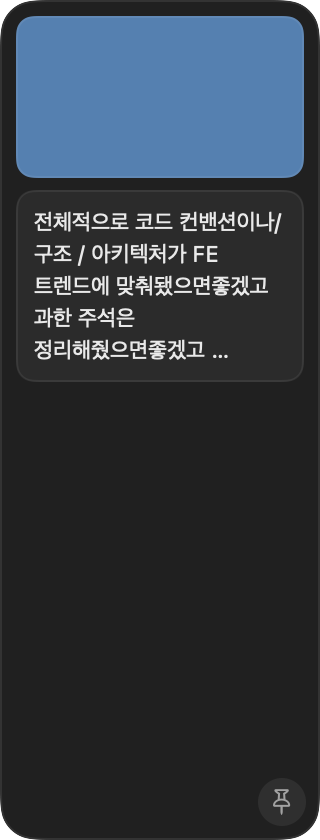
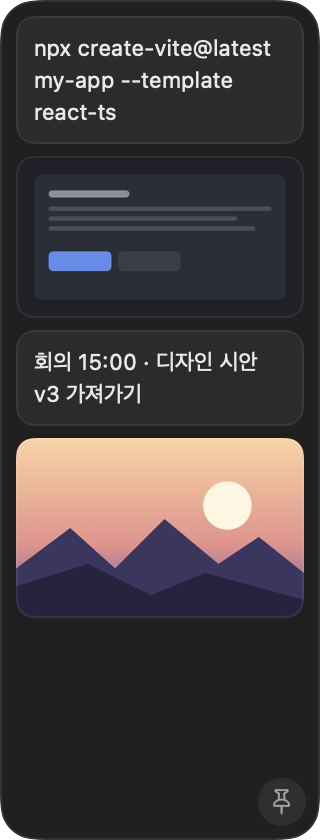
ClipShelf로 이름 변경, 샘플 데이터 스크린샷, README 배지, v0.2.0

diff --git a/Tests/ClipShelfTests/StoreTests.swift b/Tests/ClipShelfTests/StoreTests.swift
@@ -1,13 +1,13 @@
 import AppKit
 import XCTest
-@testable import Shelf
+@testable import ClipShelf
 
 final class StoreTests: XCTestCase {
     private var dir: URL!
     private var store: Store!
 
     override func setUp() {
-        dir = FileManager.default.temporaryDirectory.appendingPathComponent("ShelfTests-\(UUID().uuidString)")
+        dir = FileManager.default.temporaryDirectory.appendingPathComponent("ClipShelfTests-\(UUID().uuidString)")
         store = Store(directory: dir)
     }
 
@@ -60,7 +60,7 @@ final class StoreTests: XCTestCase {
     }
 
     func testPasteboardRoundTrip() {
-        let pb = NSPasteboard(name: NSPasteboard.Name("ShelfTests-\(UUID().uuidString)"))
+        let pb = NSPasteboard(name: NSPasteboard.Name("ClipShelfTests-\(UUID().uuidString)"))
         defer { pb.releaseGlobally() }
 
         pb.clearContents()

diff --git a/Sources/ClipShelf/ShelfPanel.swift b/Sources/ClipShelf/ShelfPanel.swift
@@ -229,7 +229,7 @@ final class ShelfPanel {
             guard let view = self?.panel.contentView,
                   let rep = view.bitmapImageRepForCachingDisplay(in: view.bounds) else { return }
             view.cacheDisplay(in: view.bounds, to: rep)
-            let url = Store.defaultDirectory.deletingLastPathComponent().appendingPathComponent("Shelf-snapshot.png")
+            let url = Store.defaultDirectory.deletingLastPathComponent().appendingPathComponent("ClipShelf-snapshot.png")
             try? rep.representation(using: .png, properties: [:])?.write(to: url)
         }
         source.resume()

diff --git a/Sources/ClipShelf/ClipShelfApp.swift b/Sources/ClipShelf/ClipShelfApp.swift
@@ -2,11 +2,11 @@ import ServiceManagement
 import SwiftUI
 
 @main
-struct ShelfApp: App {
+struct ClipShelfApp: App {
     @NSApplicationDelegateAdaptor private var delegate: AppDelegate
 
     var body: some Scene {
-        MenuBarExtra("Shelf", systemImage: "tray.full") {
+        MenuBarExtra("ClipShelf", systemImage: "tray.full") {
             Button(L("클립보드에서 추가", "Add from Clipboard")) { delegate.shelf.store.addFromPasteboard() }
             Toggle(L("로그인 시 실행", "Launch at Login"), isOn: launchAtLogin)
             Divider()

diff --git a/Sources/ClipShelf/Store.swift b/Sources/ClipShelf/Store.swift
@@ -4,7 +4,7 @@ import UniformTypeIdentifiers
 /// 선반 = 폴더 하나. 폴더 안의 파일이 곧 아이템. `.txt`는 텍스트, 나머지는 이미지/파일.
 final class Store: ObservableObject {
     static let defaultDirectory = FileManager.default.urls(for: .cachesDirectory, in: .userDomainMask)[0]
-        .appendingPathComponent("Shelf", isDirectory: true)
+        .appendingPathComponent("ClipShelf", isDirectory: true)
 
     let directory: URL
     @Published private(set) var items: [URL] = []

diff --git a/Package.swift b/Package.swift
@@ -2,10 +2,10 @@
 import PackageDescription
 
 let package = Package(
-    name: "Shelf",
+    name: "ClipShelf",
     platforms: [.macOS(.v14)],
     targets: [
-        .executableTarget(name: "Shelf", path: "Sources/Shelf"),
-        .testTarget(name: "ShelfTests", dependencies: ["Shelf"], path: "Tests/ShelfTests"),
+        .executableTarget(name: "ClipShelf", path: "Sources/ClipShelf"),
+        .testTarget(name: "ClipShelfTests", dependencies: ["ClipShelf"], path: "Tests/ClipShelfTests"),
     ]
 )

diff --git a/README.ko.md b/README.ko.md
@@ -1,8 +1,8 @@
 <p align="center">
-  <img src="docs/icon/app-icon.png" width="128" alt="선반 아이콘">
+  <img src="docs/icon/app-icon.png" width="128" alt="클립 선반 아이콘">
 </p>
 
-<h1 align="center">Shelf · 선반</h1>
+<h1 align="center">ClipShelf · 클립 선반</h1>
 
 <p align="center">
   맥 화면 가장자리에 붙어 있는 작은 임시 보관함.<br>
@@ -10,13 +10,15 @@
 </p>
 
 <p align="center">
-  <a href="README.md">English</a> ·
-  <a href="https://github.com/E-JIWON/shelf/releases/latest">다운로드</a>
+  <a href="README.md"><img src="https://img.shields.io/badge/English-README.md-blue?style=flat-square" alt="English"></a>
+  <a href="README.ko.md"><img src="https://img.shields.io/badge/한국어-현재-111?style=flat-square" alt="한국어"></a>
+  <a href="https://github.com/E-JIWON/clipshelf/releases/latest"><img src="https://img.shields.io/github/v/release/E-JIWON/clipshelf?style=flat-square&label=다운로드&color=2ea043" alt="다운로드"></a>
+  <img src="https://img.shields.io/badge/macOS-14%2B-lightgrey?style=flat-square" alt="macOS 14+">
 </p>
 
 ---
 
-캡처를 떴는데 세 군데에 넣어야 한다. 뭔가 복사했는데 다른 걸 복사하다 날린다. 선반은 그 "사이"에 두는 자리다. 화면 가장자리에 들어가 있는 작은 유리판에 던져두면, 끝날 때까지 거기 있다.
+캡처를 떴는데 세 군데에 넣어야 한다. 뭔가 복사했는데 다른 걸 복사하다 날린다. 클립 선반은 그 "사이"에 두는 자리다. 화면 가장자리에 들어가 있는 작은 유리판에 던져두면, 끝날 때까지 거기 있다.
 
 ## 뭘 하나
 
@@ -27,26 +29,26 @@
 - **그 자리에서 보기** — 카드 클릭하면 Quick Look. 텍스트 카드는 바로 편집창이 되고 타이핑하는 대로 저장.
 - **거슬리지 않기** — 평소엔 10px 탭만 남기고 숨어 있다가, 탭에 마우스를 대거나 어디서든 드래그를 시작하면 스르륵 나온다.
 - **놓은 자리에 있기** — 패널을 좌/우 아무 쪽으로 끌어다 놓으면 가장자리에 붙고 기억한다. 핀을 켜면 계속 열려 있음.
-- **설정할 게 없음** — 계정, 동기화, 설정창 없음. 아이템은 `~/Library/Caches/Shelf` 폴더의 그냥 파일.
+- **설정할 게 없음** — 계정, 동기화, 설정창 없음. 아이템은 `~/Library/Caches/ClipShelf` 폴더의 그냥 파일.
 
 ## 설치
 
 **다운로드** (macOS 14 Sonoma 이상, Apple Silicon·Intel)
 
-1. [최신 릴리즈](https://github.com/E-JIWON/shelf/releases/latest)에서 `Shelf.zip` 받아서 압축 해제.
-2. `Shelf.app`을 `/Applications`로 옮기고 실행.
+1. [최신 릴리즈](https://github.com/E-JIWON/clipshelf/releases/latest)에서 `ClipShelf.zip` 받아서 압축 해제.
+2. `ClipShelf.app`을 `/Applications`로 옮기고 실행.
 3. "확인되지 않은 개발자" 경고가 뜬다(공증을 안 받았음). **시스템 설정 → 개인정보 보호 및 보안**에서 **그래도 열기**를 누르거나, 터미널에서 한 번:
    ```bash
-   xattr -cr /Applications/Shelf.app
+   xattr -cr /Applications/ClipShelf.app
    ```
 4. 메뉴바에 트레이 아이콘이 생긴다. 재시작 후에도 쓰려면 거기서 **로그인 시 실행**을 켠다.
 
 **소스에서 빌드**
 
 ```bash
-git clone https://github.com/E-JIWON/shelf.git
-cd shelf
-./install.sh      # 릴리즈 빌드 → Shelf.app → /Applications
+git clone https://github.com/E-JIWON/clipshelf.git
+cd clipshelf
+./install.sh      # 릴리즈 빌드 → ClipShelf.app → /Applications
 ```
 
 Xcode 15 이상(또는 Swift 5.9 커맨드라인 툴) 필요.
@@ -55,7 +57,7 @@ Xcode 15 이상(또는 Swift 5.9 커맨드라인 툴) 필요.
 
 | 파일 | 역할 |
 |---|---|
-| `ShelfApp.swift` | SwiftUI `App` 진입점 + `MenuBarExtra`. Dock 아이콘 없음. |
+| `ClipShelfApp.swift` | SwiftUI `App` 진입점 + `MenuBarExtra`. Dock 아이콘 없음. |
 | `ShelfPanel.swift` | 앱을 활성화하지 않는 `NSPanel`. 가장자리 스냅, 숨김/펼침, 외부 드래그 감지, Quick Look 팝오버. |
 | `Store.swift` | 데이터 레이어 = 폴더. 파일 하나가 아이템 하나, `.txt`면 텍스트. `DispatchSource`로 폴더를 감시해서 바깥에서 바뀐 것도 반영. |
 | `Views/DragHandle.swift` | 카드 위의 AppKit 드래그 세션. SwiftUI `onDrag`는 `public.file-url`을 안 실어서 다른 앱이 드롭을 안 받는다. |
@@ -72,14 +74,14 @@ Xcode 15 이상(또는 Swift 5.9 커맨드라인 툴) 필요.
 swift run          # 개발 실행
 swift test         # Store 단위 테스트
 ./install.sh       # /Applications 에 설치
-kill -USR1 $(pgrep -x Shelf)   # 패널을 ~/Library/Caches/Shelf-snapshot.png 로 저장
+kill -USR1 $(pgrep -x ClipShelf)   # 패널을 ~/Library/Caches/ClipShelf-snapshot.png 로 저장
 ```
 
 ## 다른 거 쓰면 안 되나
 
 - **Yoink** — 좋고, 이 프로젝트의 출발점. 유료고 나한텐 기능이 많았다.
 - **유니버설 클립보드 / Paste** — 클립보드 히스토리지 선반이 아님. 한 번에 하나, 끌 게 없다.
-- **Dropover** — 가장 비슷하지만, 선반은 드래그를 따라오는 창이 아니라 가장자리의 고정된 자리다.
+- **Dropover** — 가장 비슷하지만, 클립 선반은 드래그를 따라오는 창이 아니라 가장자리의 고정된 자리다.
 
 ## 라이선스
 

diff --git a/README.md b/README.md
@@ -1,8 +1,8 @@
 <p align="center">
-  <img src="docs/icon/app-icon.png" width="128" alt="Shelf icon">
+  <img src="docs/icon/app-icon.png" width="128" alt="ClipShelf icon">
 </p>
 
-<h1 align="center">Shelf</h1>
+<h1 align="center">ClipShelf</h1>
 
 <p align="center">
   A tiny drop zone that lives on the edge of your Mac screen.<br>
@@ -10,13 +10,15 @@
 </p>
 
 <p align="center">
-  <a href="README.ko.md">한국어</a> ·
-  <a href="https://github.com/E-JIWON/shelf/releases/latest">Download</a>
+  <a href="README.md"><img src="https://img.shields.io/badge/English-current-111?style=flat-square" alt="English"></a>
+  <a href="README.ko.md"><img src="https://img.shields.io/badge/한국어-README.ko.md-blue?style=flat-square" alt="한국어"></a>
+  <a href="https://github.com/E-JIWON/clipshelf/releases/latest"><img src="https://img.shields.io/github/v/release/E-JIWON/clipshelf?style=flat-square&label=Download&color=2ea043" alt="Download"></a>
+  <img src="https://img.shields.io/badge/macOS-14%2B-lightgrey?style=flat-square" alt="macOS 14+">
 </p>
 
 ---
 
-You take a screenshot, and now you need it in three places. You copy a snippet, then copy something else and lose it. Shelf is the in‑between spot: a small glass panel tucked into the screen edge that holds whatever you throw at it until you're done.
+You take a screenshot, and now you need it in three places. You copy a snippet, then copy something else and lose it. ClipShelf is the in‑between spot: a small glass panel tucked into the screen edge that holds whatever you throw at it until you're done.
 
 ## What it does
 
@@ -27,26 +29,26 @@ You take a screenshot, and now you need it in three places. You copy a snippet, 
 - **Peek without leaving** — click a card for Quick Look. Text cards open as an editor and save as you type.
 - **Stays out of the way** — hides to a 10px tab at the edge. Hover the tab, or start dragging anything anywhere, and it slides out.
 - **Lives where you put it** — drag the panel to either side of the screen and it snaps and remembers. Pin it to keep it open.
-- **Nothing to configure** — no accounts, no sync, no settings window. Items are plain files in `~/Library/Caches/Shelf`.
+- **Nothing to configure** — no accounts, no sync, no settings window. Items are plain files in `~/Library/Caches/ClipShelf`.
 
 ## Install
 
 **Download** (macOS 14 Sonoma or later, Apple Silicon and Intel)
 
-1. Grab `Shelf.zip` from the [latest release](https://github.com/E-JIWON/shelf/releases/latest) and unzip it.
-2. Move `Shelf.app` to `/Applications` and open it.
+1. Grab `ClipShelf.zip` from the [latest release](https://github.com/E-JIWON/clipshelf/releases/latest) and unzip it.
+2. Move `ClipShelf.app` to `/Applications` and open it.
 3. macOS will say the app is from an unidentified developer (it isn't notarized). Either go to **System Settings → Privacy & Security** and click **Open Anyway**, or run once:
    ```bash
-   xattr -cr /Applications/Shelf.app
+   xattr -cr /Applications/ClipShelf.app
    ```
 4. A tray icon appears in the menu bar. Turn on **Launch at Login** there if you want it to come back after a restart.
 
 **Build from source**
 
 ```bash
-git clone https://github.com/E-JIWON/shelf.git
-cd shelf
-./install.sh      # release build → Shelf.app → /Applications
+git clone https://github.com/E-JIWON/clipshelf.git
+cd clipshelf
+./install.sh      # release build → ClipShelf.app → /Applications
 ```
 
 Requires Xcode 15+ (or the Command Line Tools with Swift 5.9).
@@ -55,7 +57,7 @@ Requires Xcode 15+ (or the Command Line Tools with Swift 5.9).
 
 | Piece | What it does |
 |---|---|
-| `ShelfApp.swift` | SwiftUI `App` entry with a `MenuBarExtra`. No Dock icon. |
+| `ClipShelfApp.swift` | SwiftUI `App` entry with a `MenuBarExtra`. No Dock icon. |
 | `ShelfPanel.swift` | A non‑activating `NSPanel`. Edge snapping, hide/reveal, external drag detection, Quick Look popover. |
 | `Store.swift` | The data layer is a folder. One file per item; `.txt` means text. A `DispatchSource` watches it so changes from outside show up. |
 | `Views/DragHandle.swift` | AppKit drag session over each card. SwiftUI's `onDrag` doesn't put `public.file-url` on the pasteboard, so other apps wouldn't accept drops. |
@@ -72,14 +74,14 @@ Two details worth knowing:
 swift run          # run the dev build
 swift test         # Store unit tests
 ./install.sh       # install to /Applications
-kill -USR1 $(pgrep -x Shelf)   # dump the panel to ~/Library/Caches/Shelf-snapshot.png
+kill -USR1 $(pgrep -x ClipShelf)   # dump the panel to ~/Library/Caches/ClipShelf-snapshot.png
 ```
 
 ## Why not just use …
 
 - **Yoink** — great, and the inspiration. Paid, and more than I needed.
 - **Universal Clipboard / Paste** — clipboard history, not a shelf. One item at a time, nothing to drag.
-- **Dropover** — closer, but Shelf is a fixed spot on the edge rather than a window that follows your drag.
+- **Dropover** — closer, but ClipShelf is a fixed spot on the edge rather than a window that follows your drag.
 
 ## License
 
